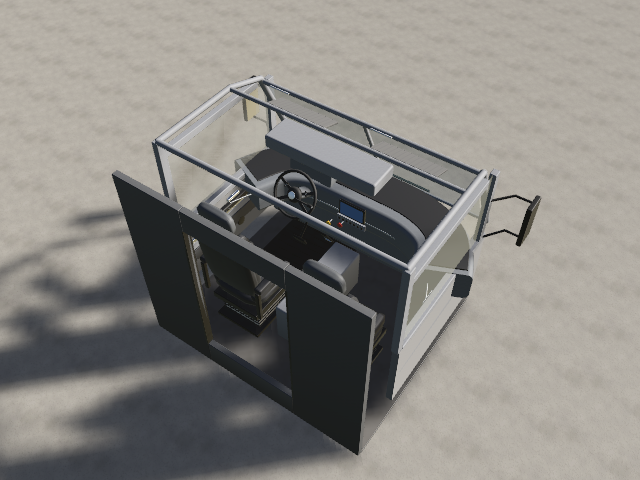
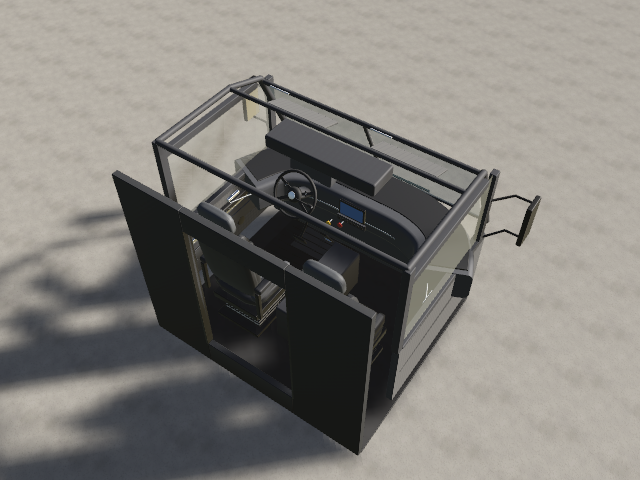
cascadia-cab-interior: charcoal trim, deeper quilting, wear patches

diff --git a/Sources/RealLibrary/Props/Vehicle/CascadiaCabInterior.swift b/Sources/RealLibrary/Props/Vehicle/CascadiaCabInterior.swift
@@ -29,7 +29,7 @@ public struct CascadiaCabInterior: RealArticulated {
     public static let steeringAxis = simd_normalize(V3(0, 0.5, -0.87))
 
     /// Dash plastic.
-    public var dash: MaterialKey = "plastic.dash:70747A"
+    public var dash: MaterialKey = "plastic.dash:4A4D52"
     /// Seat upholstery (center panels).
     public var seat: MaterialKey = "vinyl.seat-grey"
     /// Seat bolsters and trim.
@@ -39,7 +39,7 @@ public struct CascadiaCabInterior: RealArticulated {
     public func rig(seed: UInt64) -> Rig {
         var rig = Rig(name: Self.id, lods: 2, switchDistances: [5])
         let black: MaterialKey = "plastic.black", chrome: MaterialKey = "metal.chrome"
-        let trim: MaterialKey = "plastic.dash:8A8D92", glass: MaterialKey = "glass.cabin"
+        let trim: MaterialKey = "plastic.dash:3C3E42", glass: MaterialKey = "glass.cabin"
         let cx = Self.dx
         // Windshield plane: bottom edge at (z 1.05, y 0.98), rake up and back.
         let u = simd_normalize(V3(0, 0.903, -0.43)), n = simd_normalize(V3(0, 0.43, 0.903))
@@ -54,8 +54,10 @@ public struct CascadiaCabInterior: RealArticulated {
             let hi = l == 0
             let s = hi ? 2 : 1
             // Floor, driver mat, center console, step sill.
-            m.add(VK.span(V3(-1.1, 0, -0.95), V3(1.1, 0.03, 0.95), "rubber.floor-mat:77797C", r: 0.006))
+            m.add(VK.span(V3(-1.1, 0, -0.95), V3(1.1, 0.03, 0.95), "rubber.floor-mat:3A3B3E", r: 0.006))
             m.add(VK.span(V3(cx - 0.4, 0.03, -0.1), V3(cx + 0.4, 0.034, 0.95), "rubber.floor-mat:2A2B2D", r: 0.002))
+            // Wear: scuffed lighter mat patch under the pedals and a worn driver seat entry bolster.
+            m.add(VK.span(V3(cx - 0.22, 0.034, 0.5), V3(cx + 0.2, 0.0355, 0.84), "rubber.floor-mat:55575A", r: 0.001))
             if hi { for k in 0..<10 { m.add(cuboid(V3(0.7, 0.004, 0.01), material: "rubber.floor-mat"), Xform(translation: V3(cx, 0.036, 0.1 + Float(k) * 0.08))) } }
             m.add(VK.span(V3(-0.14, 0.03, -0.45), V3(0.14, 0.46, 0.5), trim, r: 0.02, seg: s))
             m.add(VK.span(V3(-0.11, 0.46, -0.3), V3(0.11, 0.475, 0.0), "plastic.gloss:121417", r: 0.004))
@@ -122,7 +124,7 @@ public struct CascadiaCabInterior: RealArticulated {
             // Door panels at x = +/-1.1 with window openings, glass, pulls, armrests, switch pods, speakers.
             for sg: Float in [-1, 1] {
                 let xi = sg * 1.06, xo = sg * 1.12
-                m.add(VK.span(V3(xi, 0.28, -0.55), V3(xo, 0.98, 0.9), "fabric.headliner:8C8D90", r: 0.008, seg: s))
+                m.add(VK.span(V3(xi, 0.28, -0.55), V3(xo, 0.98, 0.9), "fabric.headliner:3A3C40", r: 0.008, seg: s))
                 m.add(VK.span(V3(xi - sg * 0.02, 0.62, -0.5), V3(xo, 0.7, 0.55), trim, r: 0.012, seg: s))
                 m.add(VK.span(V3(xi - sg * 0.05, 0.76, -0.2), V3(xi, 0.82, 0.42), black, r: 0.015, seg: s))
                 m.add(VK.span(V3(xi - sg * 0.02, 0.93, -0.5), V3(xo, 1.0, 0.9), trim, r: 0.012, seg: s))
@@ -145,7 +147,7 @@ public struct CascadiaCabInterior: RealArticulated {
                 m.add(HK.rect("metal.chrome", center: V3(mx - sg * 0.024, 1.32, 0.9), right: V3(0, 0, sg), up: .up, w: 0.18, h: 0.4))
             }
             // Sleeper opening: rear wall with a doorway behind the seats.
-            let wallM: MaterialKey = "plastic.dash:5A5C5F"
+            let wallM: MaterialKey = "plastic.dash:35373A"
             m.add(VK.span(V3(0.45, 0.03, -1.0), V3(1.1, 1.93, -0.94), wallM, r: 0.008))
             m.add(VK.span(V3(-1.1, 0.03, -1.0), V3(-0.45, 1.93, -0.94), wallM, r: 0.008))
             m.add(VK.span(V3(-0.45, 1.72, -1.0), V3(0.45, 1.93, -0.94), wallM, r: 0.008))
@@ -169,20 +171,20 @@ public struct CascadiaCabInterior: RealArticulated {
                 // Cushion and bolsters.
                 m.add(Prim.superellipsoid(V3(0.54, 0.14, 0.54), exponent: 5, subdivisions: hi ? 5 : 3, material: bolster), Xform(translation: V3(sx, 0.5, sz)))
                 if hi {
-                    let (cp, _) = tuftedPanel(width: 0.28, height: 0.42, spacing: V2(0.07, 0.07), puff: 0.012, edgeTuck: 0.012, cell: 0.05, material: seat)
+                    let (cp, _) = tuftedPanel(width: 0.28, height: 0.42, spacing: V2(0.07, 0.07), puff: 0.024, edgeTuck: 0.02, cell: 0.05, material: seat)
                     m.add(cp, Xform(translation: V3(sx, 0.568, sz + 0.0), rotation: simd_quatf(angle: -.pi / 2, axis: V3(1, 0, 0))))
                 } else {
                     m.add(Prim.superellipsoid(V3(0.3, 0.06, 0.44), exponent: 5, subdivisions: 3, material: seat), Xform(translation: V3(sx, 0.55, sz)))
                 }
                 for sg: Float in [-1, 1] {
-                    m.add(Prim.superellipsoid(V3(0.1, 0.12, 0.5), exponent: 4, subdivisions: hi ? 5 : 3, material: bolster), Xform(translation: V3(sx + sg * 0.21, 0.56, sz)))
+                    m.add(Prim.superellipsoid(V3(0.1, 0.12, 0.5), exponent: 4, subdivisions: hi ? 5 : 3, material: driver && sg < 0 ? "vinyl.seat-grey:4A4C50" : bolster), Xform(translation: V3(sx + sg * 0.21, 0.56, sz)))
                 }
                 // High back: shell, quilted center, bolsters, headrest, lumbar.
                 let tilt = simd_quatf(angle: -0.14, axis: V3(1, 0, 0))
                 let bz = sz - 0.28
                 m.add(Prim.superellipsoid(V3(0.54, 0.86, 0.11), exponent: 5, subdivisions: hi ? 5 : 3, material: bolster), Xform(translation: V3(sx, 1.0, bz), rotation: tilt))
                 if hi {
-                    let (bp, _) = tuftedPanel(width: 0.3, height: 0.66, spacing: V2(0.075, 0.095), puff: 0.014, edgeTuck: 0.012, cell: 0.05, material: seat)
+                    let (bp, _) = tuftedPanel(width: 0.3, height: 0.66, spacing: V2(0.075, 0.095), puff: 0.026, edgeTuck: 0.02, cell: 0.05, material: seat)
                     m.add(bp, Xform(translation: tilt.act(V3(0, 0.0, 0.055)) + V3(sx, 0.98, bz), rotation: tilt))
                 } else {
                     m.add(Prim.superellipsoid(V3(0.3, 0.66, 0.05), exponent: 5, subdivisions: 3, material: seat), Xform(translation: tilt.act(V3(0, 0, 0.045)) + V3(sx, 0.98, bz), rotation: tilt))
